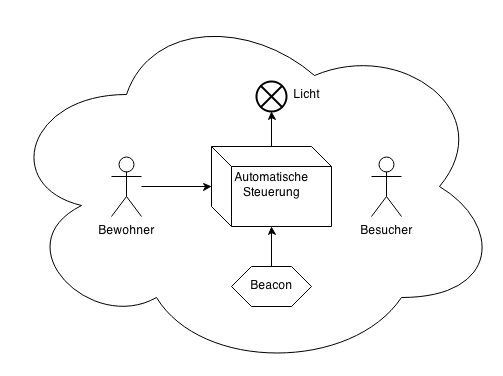
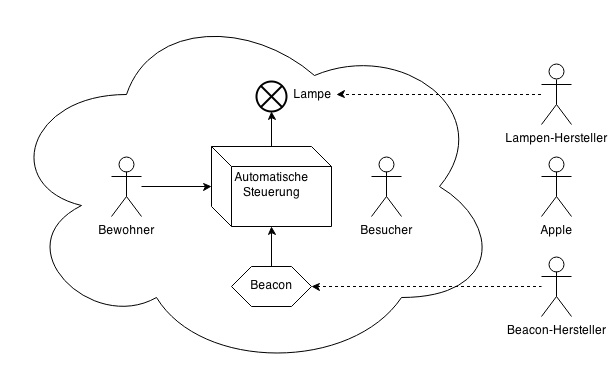
Updated Stakeholders and Software

diff --git a/index.html b/index.html
@@ -83,7 +83,7 @@ welche über eine API verfügt und so gezielt gesteuert werden kann.
 <h3>Ziele der Arbeit</h3>
 <p>
 Im Rahmen dieser Semesterarbeit soll analysiert werden, wie die neuen 
-Funktionen von iOS 7 optimal verwendet werden können, um eine einfache 
+Funktionen von iOS&nbsp;7 optimal verwendet werden können, um eine einfache 
 Heimautomatisierung zusammen mit der Philips hue zu ermöglichen. Es soll eine 
 zentrale Web-Applikation entwickelt werden, welche die Bewegungen eines 
 Benutzers innerhalb der eigenen Wohnräume speichert und die Beleuchtung der 
@@ -101,7 +101,7 @@ Im Rahmen dieser Semesterarbeit werden vom Studenten folgende Aufgaben ausgefüh
 <li>Anforderungsdokumentation für die Automatisierung der Beleuchtung einer Wohnung.</li>
 <li>Konzeption und Design des Software-Prototyps zur Umsetzung der dokumentierten Anforderungen.</li>
 <li>Implementation eines Prototyps bestehend aus einer iPhone-App zur Lokalisierung des Benutzers und einer Web-Applikation zur Überwachung und Steuerung der Beleuchtung.</li>
-<li>Verifikation des Software-Prototyps in einem zweiwöchigen Feldversuch und Analyse der Ergebnisse.</li>
+<li>Verifikation des Software-Prototyps in einem Feldversuch und Analyse der Ergebnisse.</li>
 <li>Demonstration des Software-Prototyps.</li>
 </ol>
 
@@ -722,7 +722,10 @@ Screenshot Bluetooth Explorer nach Scan
 <p>
 Für das Projekt wurden iBeacons von Estimote eingesetzt. Die «Estimote Beacons» 
 wurden hauptsächlich für den Einsatz in Läden entwickelt und enthalten einen 
-Bluetooth-Sender, der das iBeacon-Signal sendet.
+Bluetooth-Sender, der das iBeacon-Signal sendet. Da iBeacon eine neue 
+Technologie ist, existierten zu Beginn des Projekt nur wenige Anbieter, welche 
+Hardware für iBeacons anboten. Die Estimote Beacons wurde aufgrund ihrer 
+Verfügbarkeit gewählt.
 </p>
 
 <figure>
@@ -731,6 +734,9 @@ Bluetooth-Sender, der das iBeacon-Signal sendet.
 Estimote Beacon</figcaption>
 </figure>
 
+<p>
+
+</p>
 
 <h3>Messung RSSI</h3>
 
@@ -881,6 +887,50 @@ Lichter im Raum angehen - beim Verlassen des Raums sollen die Lichter wieder
 automatisch ausgehen. Dies spart Strom und erleichtert den Alltag.
 </p>
 
+<h3>Stakeholder</h3>
+
+<p>
+Die folgenden Stakeholder haben einen direkten oder indirekten Einfluss auf die 
+Anforderungen. Diese Stakeholder finden sich ebenfalls im nachfolgenden 
+Kontextdiagramm.
+</p>
+
+<figure>
+<table class="inline" width="100%">
+<colgroup>
+    <col width="30%" />
+    <col width="70%" />
+</colgroup>
+<tbody>
+<tr>
+    <th>Stakeholder</th>
+    <th>Beschreibung</th>
+</tr>
+<tr>
+    <td>Bewohner</td>
+    <td>Der Bewohner der Wohnung ist die massgebende Zielperson. Die Anwendung soll sein Leben vereinfachen, die funktionalen Anforderungen sind deshalb auf Ihn ausgelegt.</td>
+</tr>
+<tr>
+    <td>Besucher</td>
+    <td>Besucher der Wohnung wissen im Normalfall nichts über die im Hintergrund laufende Anwendung und müssen vor Überraschungen geschützt werden.</td>
+</tr>
+<tr>
+    <td>Beacon-Hersteller</td>
+    <td>Der Beacon-Hersteller entwickelt und liefert die nötige Hardware in Form der Beacons für die Anwendung. Er hat einen Einfluss auf die technischen Anforderungen.</td>
+</tr>
+<tr>
+    <td>Lampen-Hersteller</td>
+    <td>Der Lampen-Hersteller entwickelt und produziert die steuerbaren Lampen. Er definiert die technischen Möglichkeiten der Beleuchtung.</td>
+</tr>
+<tr>
+    <td>Apple</td>
+    <td>Apple als Entwickler des iBeacon-Formats definiert die technischen Vorgaben und nimmt evtl. in Zukunft Änderungen am Format vor.</td>
+</tr>
+</tbody>
+</table>
+<figcaption>Stakeholder</figcaption>
+</figure>
+
 <h3>Systemkontext</h3>
 
 <p>
@@ -898,6 +948,10 @@ Kontextdiagramm
 </figcaption>
 </figure>
 
+</div>
+
+<div class="chapter">
+
 <h3>Funktionale Anforderungen</h3>
 
 <p>
@@ -912,7 +966,7 @@ Steuerung.
 </p>
 
 <figure>
-<img src="images/Anwendungsfalldiagramm.png">
+<img src="images/Anwendungsfalldiagramm.png" class="inline">
 <figcaption>
 Anwendungsfalldiagramm
 </figcaption>
@@ -1533,6 +1587,10 @@ erfasst.
 </figure>
 
 
+</div>
+
+<div class="chapter">
+
 
 <h3>Nichtfunktionale Anforderungen</h3>
 
@@ -1717,7 +1775,25 @@ Komponentendiagramm
 
 <h4>iPhone-App</h4>
 
-<h4>Web-Anwendung</h4>
+<h4>Web-Applikation</h4>
+
+<p>
+Die Web-Applikation wurde nach dem klassichen MVC-Pattern umgesetzt: Anfragen 
+werden im Controller entgegengenommen, die Daten an das Model weitergeleitet und 
+schlussendlich in der View dargestellt.
+</p>
+
+<p>
+Da PHP nur wenig Funktionalität zur komplexeren Verarbeitung von HTTP-Anfragen 
+bietet, wurde das Micro-Framework <span title="Sensio Labs (2013): Silex">Silex</span> 
+verwendet. Dieses stellt Funktionen für das Routing zur Verfügung und erlaubt 
+die einfache Benutzung der Templating-Engine <span title="Sensio Labs (2014): Twig">Twig</span>.
+</p>
+
+<p>
+Das nachfolgende Klassendiagramm beschreibt die Klassen im Packet <code>Homebase\Service</code>, 
+welche das Model und damit die eigentliche Funktionalität enthalten.
+</p>
 
 <figure>
 <img src="images/Klassendiagramm.png" class="inline">
@@ -1820,6 +1896,9 @@ dokumentiert.
 <li>MySQL Workbench 6.0 Build 6.0.7.11216</li>
 <li>MySQL 5.1.70</li>
 <li>PHP 5.4.26</li>
+<li>Silex 1.1.2</li>
+<li>PHPUnit 3.7.31</li>
+<li>Twig 1.15.1</li>
 </ul>
 </div>
 
@@ -1854,6 +1933,18 @@ dokumentiert.
     <span class="ref">Punch Through Design LLC (2013): LightBlue - Bluetooth Low Energy</span>. Version 1.50.
     <a href="https://itunes.apple.com/ch/app/lightblue-bluetooth-low-energy/id557428110?l=en&mt=8">https://itunes.apple.com/ch/app/lightblue-bluetooth-low-energy/id557428110?l=en&mt=8</a>
     (abgerufen&nbsp;am&nbsp;20. April&nbsp;2014)
+</p>
+
+<p>
+    <span class="ref">Sensio Labs (2013): Silex</span>
+    <a href="http://silex.sensiolabs.org/">http://silex.sensiolabs.org/</a>
+    (abgerufen&nbsp;am&nbsp;4. Mai&nbsp;2014)
+</p>
+
+<p>
+    <span class="ref">Sensio Labs (2014): Twig</span>
+    <a href="http://twig.sensiolabs.org/">http://twig.sensiolabs.org/</a>
+    (abgerufen&nbsp;am&nbsp;4. Mai&nbsp;2014)
 </p>
 
 <p>
@@ -1975,6 +2066,10 @@ abgedeckt werden.
 </p>
 <p>
 iOS: Betriebssystem von Apple für Handys und Tablets (iPhone und iPad).
+</p>
+<p>
+Micro-Framework: Bezeichnet eine Mischung ein Framework mit reduzierter Funktionalität,
+welche eher wie eine Bibliothek aufgebaut ist.
 </p>
 </div>
 
